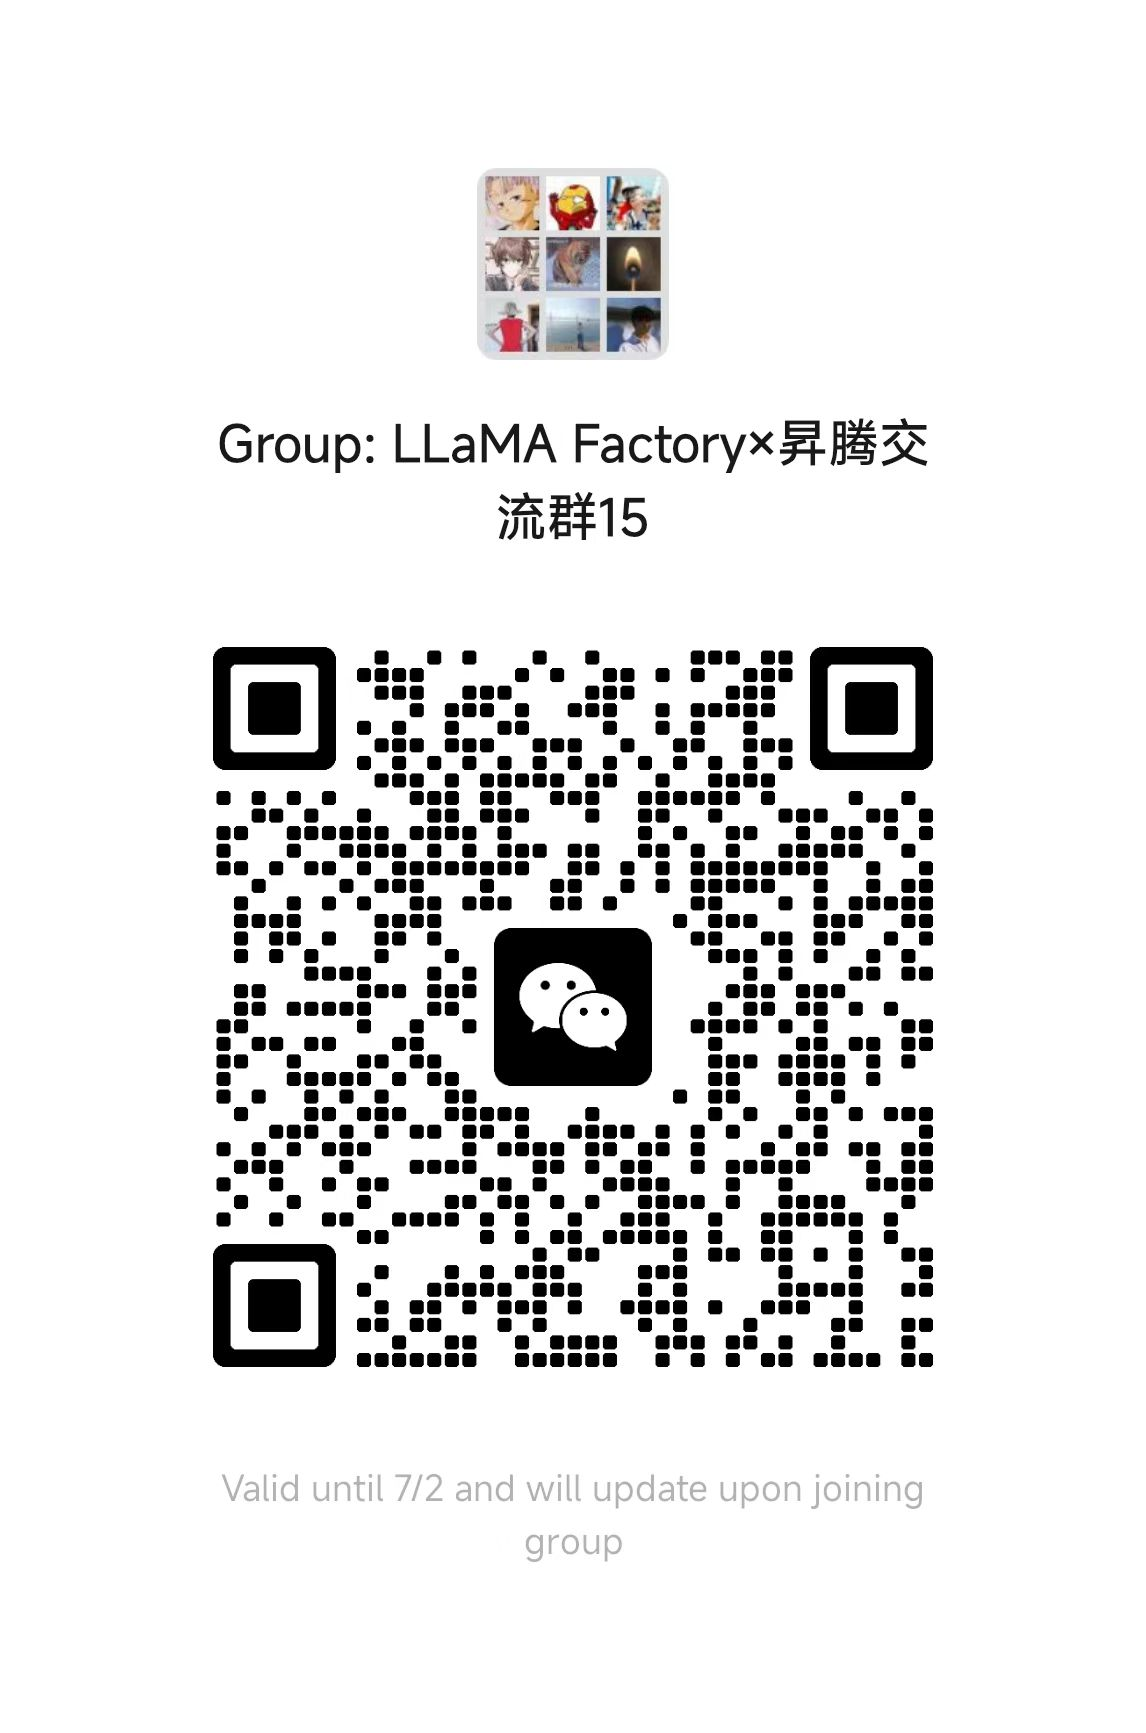
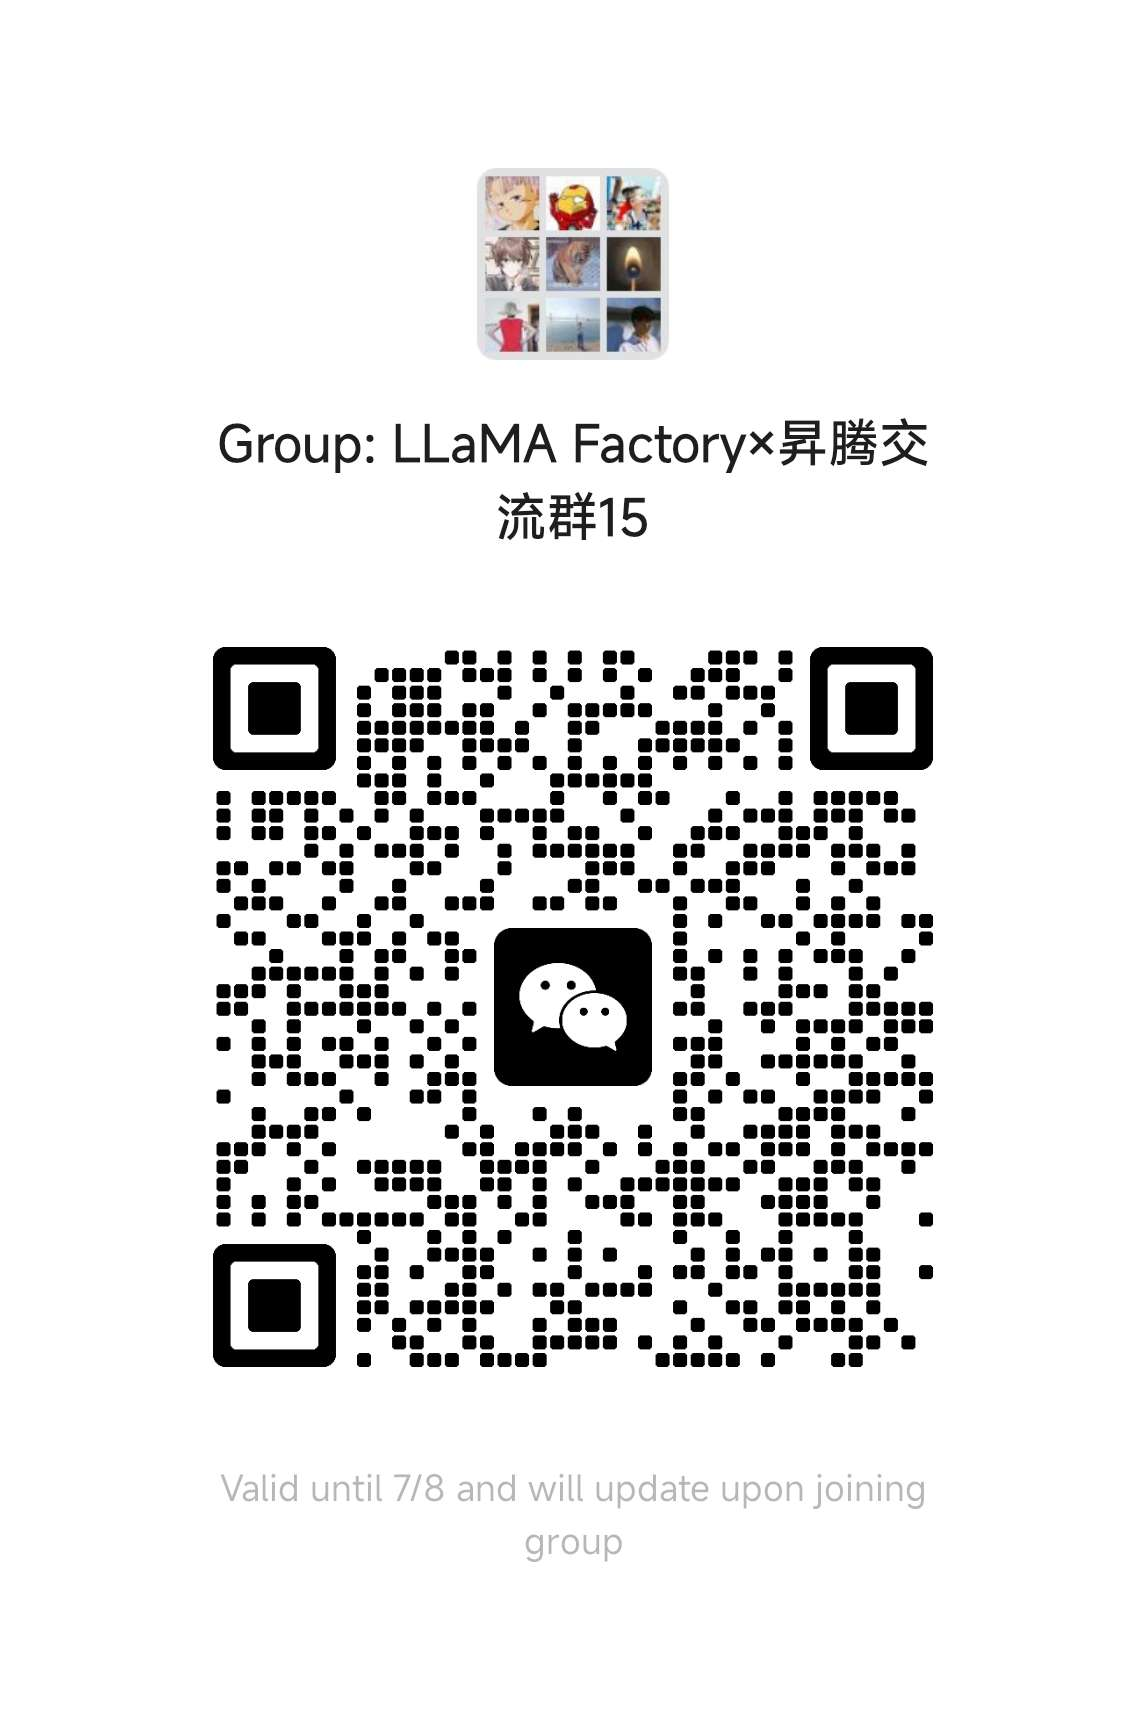
[assets] update wechat (#8517)

diff --git a/setup.py b/setup.py
@@ -43,7 +43,7 @@ def get_console_scripts() -> list[str]:
 
 extra_require = {
     "torch": ["torch>=2.0.0", "torchvision>=0.15.0"],
-    "torch-npu": ["torch==2.4.0", "torch-npu==2.4.0.post2", "decorator"],
+    "torch-npu": ["torch==2.5.1", "torchvision==0.20.1", "torch-npu==2.5.1", "decorator"],
     "metrics": ["nltk", "jieba", "rouge-chinese"],
     "deepspeed": ["deepspeed>=0.10.0,<=0.16.9"],
     "liger-kernel": ["liger-kernel>=0.5.5"],
